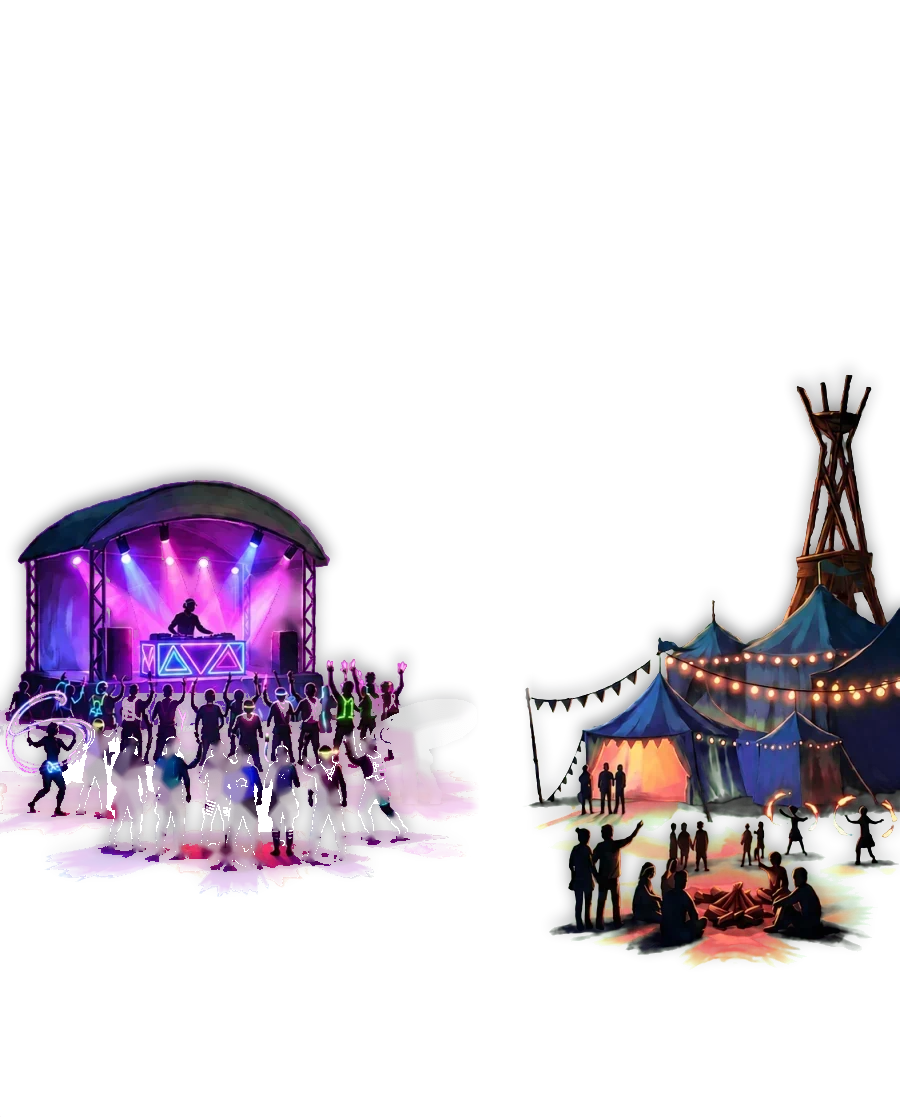
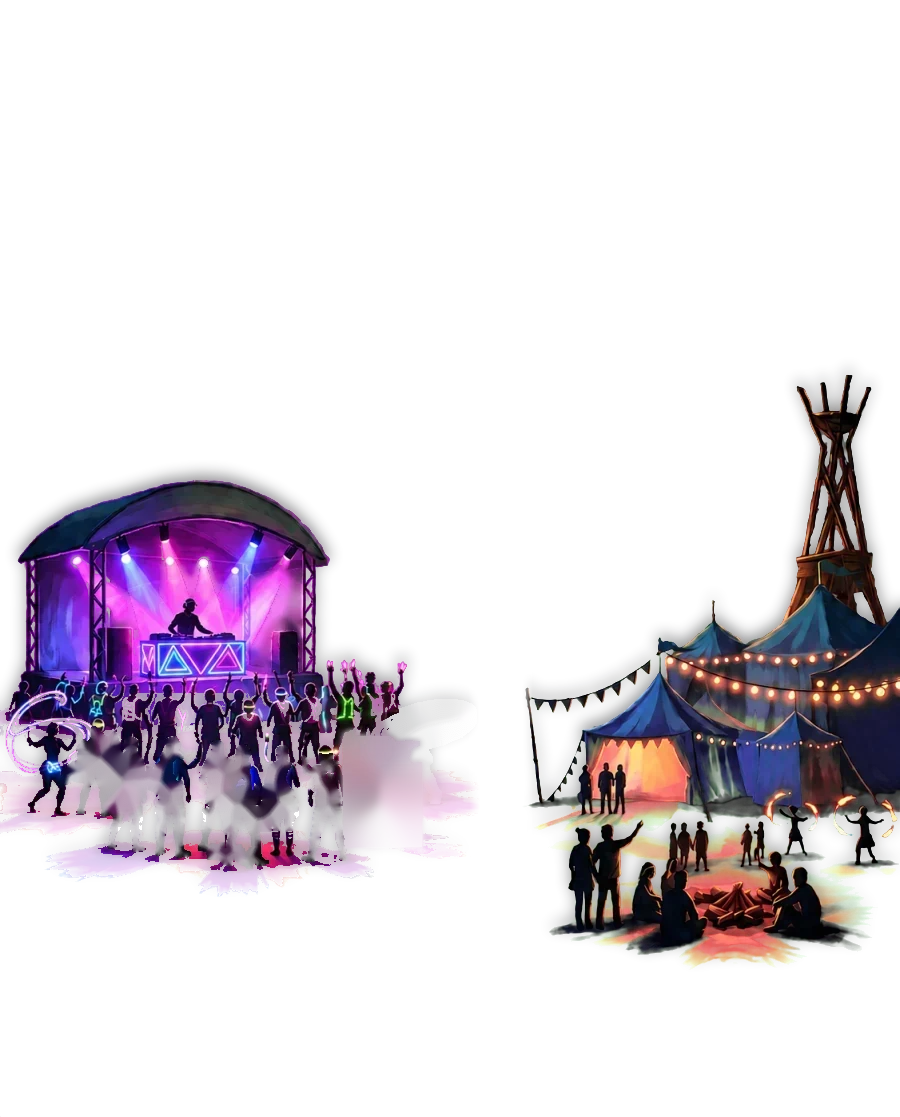
fix(bloomscroll): phone crowd without holes, striped dancer and LED strip removed
Behind each hopping dancer the phone painting is now as solid as its
surroundings, so a hop never shows sky through the crowd. The striped-legs
dancer on the right is gone, with a soft haze where she stood. The code LED
strip along the stage front is removed on every screen (owner decision).

Changed region(s): [[0.1867, 0.6392, 0.4667, 0.7914], [0.0622, 0.6392, 0.2178, 0.761]]

diff --git a/components/feed/BloomscrollScene.js b/components/feed/BloomscrollScene.js
@@ -20,7 +20,7 @@ import { BLOOMSCROLL_LOGO } from "@/components/Header/nav-links"
 // so a sharper file of the same shape replaces one with no other change.
 const IMG = "/images/bloomscroll/"
 // Bump when any scene image is replaced, so no browser mixes a cached old picture with new code
-const ART_V = "v=4"
+const ART_V = "v=7"
 const MOON = "moon.webp"
 const WIDE_ART = {
   sky: "sky.webp", far: "far-cut.webp", soft: "far-cut-blur.webp", clouds: "clouds.webp",
@@ -51,11 +51,11 @@ const LIFE = {
     fires: [[0.808, 0.805, 0.05, "bonfire"], [0.928, 0.355, 0.018, "torch"]],
     wheel: [0.816, 0.493, 0.094],
     hoops: [[0.879, 0.727, 0.019], [0.959, 0.727, 0.019]],
-    figures: [[0.06778,0.64996,0.06222,0.08147,0.0,0.13827,0.73389],[0.11444,0.65891,0.05,0.10385,0.14321,0.11111,0.93549],[0.16111,0.65891,0.05111,0.10922,0.25926,0.11358,0.98386],[0.22,0.66249,0.04444,0.10833,0.37778,0.09876,0.97584],[0.24444,0.66697,0.05444,0.11101,0.48148,0.12098,0.99999],[0.28333,0.66697,0.04889,0.09042,0.60741,0.10864,0.81451],[0.33444,0.67413,0.05111,0.09758,0.72099,0.11358,0.87901],[0.38333,0.65443,0.07,0.09848,0.83951,0.15556,0.88711]],
+    figures: [[0.06778,0.64996,0.06222,0.08147,0.0,0.1647,0.73389],[0.11444,0.65891,0.05,0.10385,0.17059,0.13235,0.93549],[0.16111,0.65891,0.05111,0.10922,0.30882,0.13529,0.98386],[0.22,0.66249,0.04444,0.10833,0.45,0.11764,0.97584],[0.24444,0.66697,0.05444,0.11101,0.57353,0.14411,0.99999],[0.28333,0.66697,0.04889,0.07878,0.72353,0.12941,0.70966],[0.33444,0.67413,0.05111,0.09758,0.85882,0.13529,0.87901]],
     hop: 0.007,
     rig: {
       heads: [[0.138, 0.49], [0.182, 0.488], [0.226, 0.488], [0.284, 0.49]], wall: [0.045, 0.47, 0.335, 0.6], floor: 0.606, panel: [0.155, 0.271, 0.573, 0.605],
-      clip: [0.0, 0.44, 0.52, 0.72], strip: [0.045, 0.0152], size: 1, beam: 0.2,
+      clip: [0.0, 0.44, 0.52, 0.72], size: 1, beam: 0.2,
     },
   },
   // Measured from the wide concert painting (docs/design/bloomscroll/wide-concert-input-2026-10-25); the wheel stands where the original wide festival painted it
@@ -68,7 +68,7 @@ const LIFE = {
     hop: 0.0081,
     rig: {
       heads: [[0.1275, 0.381], [0.1645, 0.355], [0.2475, 0.363], [0.2785, 0.394]], wall: [0.0525, 0.341, 0.289, 0.651], floor: 0.651, panel: [0.1425, 0.237, 0.578, 0.642],
-      clip: [0.0, 0.3, 0.46, 0.92], strip: [0.055, 0.0123], size: 0.81, beam: 0.45,
+      clip: [0.0, 0.3, 0.46, 0.92], size: 0.81, beam: 0.45,
     },
   },
 }
@@ -413,15 +413,7 @@ export default function BloomscrollScene({ children }) {
         s.closePath(); s.fill()
         sprite(x, y, cw * 0.035 * z, 0.9)
       })
-      // LED strip along the front of the stage, chasing in colour
       s.globalAlpha = 1
-      for (let k = 0; k < 20; k++) {
-        const [x, y] = at(R.strip[0] + k * R.strip[1], R.floor)
-        const on = Math.pow(0.5 + 0.5 * Math.sin(t / 140 - k * 0.8), 3)
-        const [cr, cg, cb] = k % 2 ? [r, g, b] : [r2, g2, b2]
-        s.fillStyle = `rgba(${cr},${cg},${cb},${0.35 + 0.65 * on})`
-        s.fillRect(x - cw * 0.004 * z, y - ch * 0.0015 * z, cw * 0.008 * z, ch * 0.003 * z)
-      }
       // The painted LED triangle panel lights up in the concert colour on the beat: the painting's own panel, tinted and
       // added as light, so only its LED lines glow and never a box
       const [bx0, by0] = at(R.panel[0], R.panel[2]), [bx1, by1] = at(R.panel[1], R.panel[3])

diff --git a/docs/bloomscroll-scene.md b/docs/bloomscroll-scene.md
@@ -57,7 +57,7 @@ The Bloomscroll page (`/feed`) opens with an animated festival scene: the visito
 | Festival life | appears `smoothstep(1500, 2100 ms)`; string-light twinkle; fire tongues and embers; fire-hoop sparks (the right-hand fire dancers); cloud drift `sin(t/9000)·10 px` |
 | Turning wheel (every screen) | centre (0.816, 0.493), radius 0.094 W, one turn per `9000·2π` ms, 12 gondolas, 24 rim bulbs, behind the tents |
 | Phone festival | portrait concert painting, split at **55.5 %**; left group set down **8 %**, right group **4 %** of the scene height |
-| Concert (every screen) | **124 bpm**; colours teal (98, 168, 172), chartreuse (206, 255, 29), magenta (255, 79, 216), violet (138, 92, 255), warm white (255, 238, 205), changing every 8 beats; beams, LED strip, LED panel pulse (the painted panel itself, tinted, so only its LED lines glow), strobe every 16 beats (a soft burst). The stage lights are drawn on their own canvas with faded edges, so no flash ever shows a box. |
+| Concert (every screen) | **124 bpm**; colours teal (98, 168, 172), chartreuse (206, 255, 29), magenta (255, 79, 216), violet (138, 92, 255), warm white (255, 238, 205), changing every 8 beats; beams, LED panel pulse (the painted panel itself, tinted, so only its LED lines glow), strobe every 16 beats (a soft burst). The stage lights are drawn on their own canvas with faded edges, so no flash ever shows a box. |
 | Crowd hop (QA round 2, owner request) | the dancers in front of the stage are cut out whole (`scripts/crowd_figures.py`) and hop as solid figures: a quick hop on each beat, rolling across the crowd from left to right; height 0.81 % (wide) / 0.7 % (phone) of the painting. At rest the painting is exactly the original. The painted light-spinner (wide) and the right-hand hoop girl (phone) are out of the paintings, and the light-hoop sparks are gone. The stage's back-right wall, painted the key magenta, is filled in from the wall around it (it used to cut out see-through). |
 | Bottom fade | desktop and tablet 14 % of the scene height; phone 30 % |
 | Reduced motion | everything still: moon up, lights on, no unfold, no hop, wheel still |

diff --git a/docs/bloomscroll-assets.md b/docs/bloomscroll-assets.md
@@ -26,14 +26,14 @@ All files are in `public/images/bloomscroll/`.
 | `crowd-concert-figures.webp` / `@2x` | The 13 wide dancers who hop, packed side by side | desktop, tablet | 668×178 / 1369×365 | sheet | transparent | No: rebuilt from 03 |
 | `glow-lights-concert.webp` | Soft light glow (screen blend) | desktop, tablet | 1000×424 | 33:14 | opaque on black | No: rebuilt from 03 |
 | `p-festival4c.webp` | Phone concert festival, hopping figures lifted out (filled in behind them) | phone | 900×1117 | 0.806 | transparent | **Yes (04)**, then re-cut |
-| `p-crowd4-figures.webp` | The 8 phone dancers who hop, packed side by side | phone | 405×124 | sheet | transparent | No: rebuilt from 04 |
+| `p-crowd4-figures.webp` | The 7 phone dancers who hop, packed side by side | phone | 340×124 | sheet | transparent | No: rebuilt from 04 |
 | `p-glow-lights4.webp` | Phone light glow | phone | 450×558 | 0.806 | opaque on black | No: rebuilt from 04 |
 | `near.webp` | Near frame: trees, ferns, roses | desktop | 2112×896 | 33:14 | transparent centre | **Yes (05)** |
 | `near-flowers.webp` | Rose bushes | phone, tablet | 2112×896 | 33:14 | transparent | **Yes (06)** |
 | `trees-tall-left.webp` / `trees-tall-right.webp` | Tall edge trees | tablet | 464×3333 | | transparent | No: already sharp at tablet size |
 | `moon.webp` | Moon | all | 320×320 | 1:1 | transparent | No: shown at 150 px at most |
 
-The grain is generated in code, and the wheel, fires, beams, LED strip, fire-hoop sparks, fireflies and embers are all drawn by code. None of them need images.
+The grain is generated in code, and the wheel, fires, beams, fire-hoop sparks, fireflies and embers are all drawn by code. None of them need images.
 
 ## Upscaling: what Terry does
 
